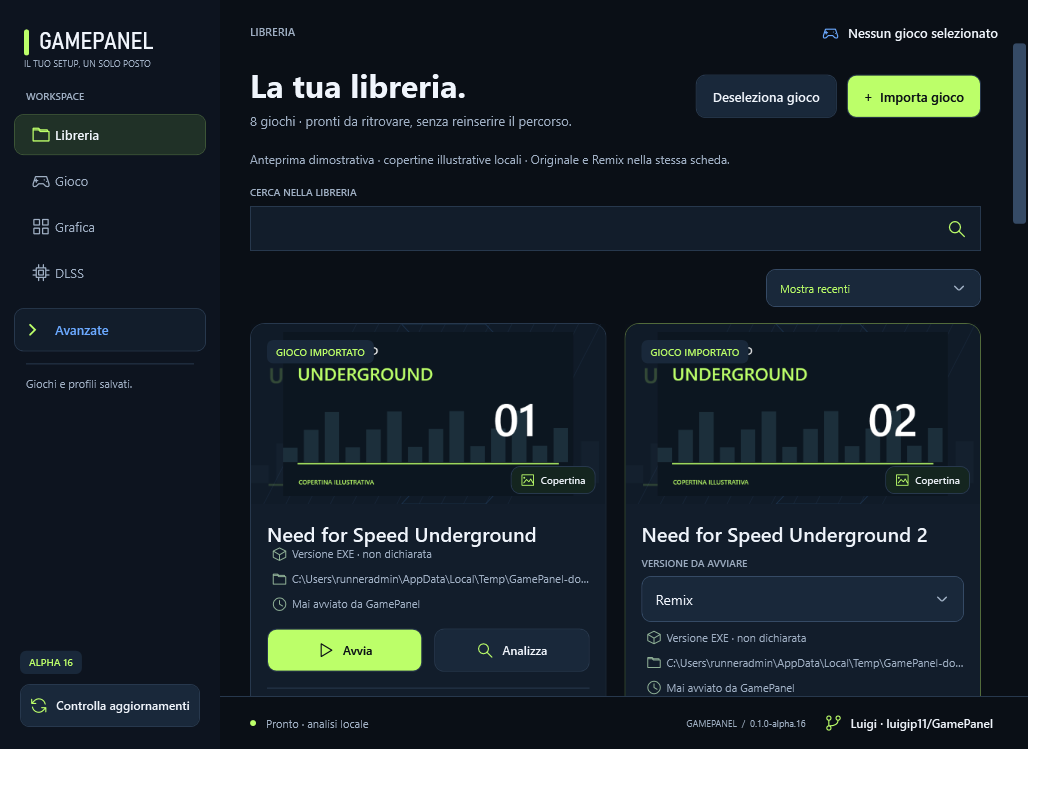
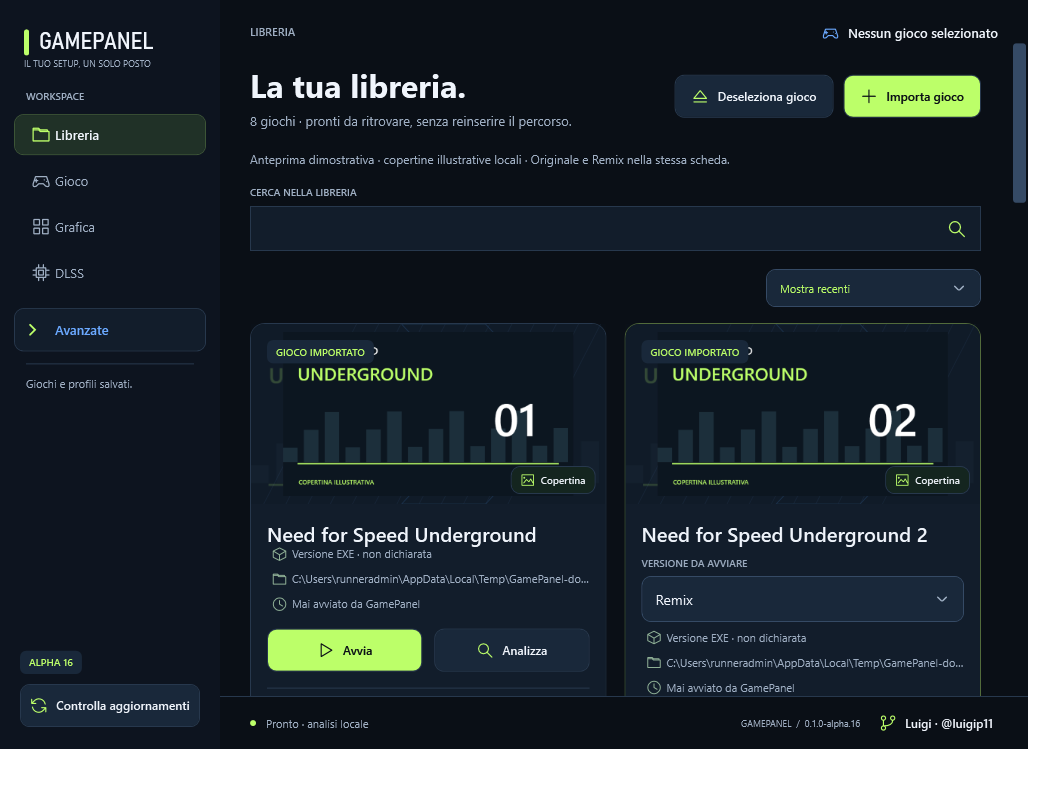
Update verified alpha.16 package link and native screenshots for every corrected page

Changed region(s): [[0.6437, 0.0914, 0.9195, 0.1523], [0.6743, 0.9137, 0.9502, 0.9442], [0.9502, 0.2437, 0.9808, 0.3046]]

diff --git a/README.md b/README.md
@@ -6,7 +6,7 @@ Le funzioni vengono proposte in base al gioco, al renderer e all'hardware rileva
 
 ## Download
 
-**[Scarica GamePanel alpha.16 per Windows x64](https://github.com/luigip11/GamePanel/actions/runs/42211356115/artifacts/13499396707)** · [Build e controlli superati](https://github.com/luigip11/GamePanel/actions/runs/42211356115) · [PR #7](https://github.com/luigip11/GamePanel/pull/7). Il download degli artifact richiede accesso a GitHub e resta disponibile fino al 4 febbraio 2027.
+**[Scarica GamePanel alpha.16 per Windows x64](https://github.com/luigip11/GamePanel/actions/runs/42228867851/artifacts/13507551076)** · [Build e controlli superati](https://github.com/luigip11/GamePanel/actions/runs/42228867851) · [PR #7](https://github.com/luigip11/GamePanel/pull/7). Il download degli artifact richiede accesso a GitHub e resta disponibile fino al 4 febbraio 2027.
 
 Per usare una build portabile, estrarre tutto lo ZIP in una cartella nuova e aprire **GamePanel.exe**. Runtime dell'app incluso; guide in **Docs**, licenze in **Licenses**, materiali in **Assets**. Giochi e pacchetti Remix non sono inclusi.
 
@@ -30,12 +30,56 @@ Le copie preparate richiedono una prova nel gioco. Il collaudo di una configuraz
 
 ## Schermate
 
-Catture della vera app WPF alpha.16 su Windows, con libreria dimostrativa isolata e copertine illustrative locali. Non mostrano prestazioni misurate dei giochi.
+Catture della vera app WPF alpha.16 su Windows, con libreria dimostrativa isolata e copertine illustrative locali. L'hardware mostrato nella pagina Gioco appartiene al runner Windows; non rappresenta il PC dell'utente. Nessun gioco viene eseguito per produrre queste immagini.
 
-![Libreria GamePanel con Underground 1 e 2](docs/images/alpha16-library-nfs.png)
+![Libreria GamePanel](docs/images/alpha16-library-nfs.png)
 
-![Gioco con copertina selezionata](docs/images/alpha16-game.png)
+<details>
+<summary>Azioni delle schede della libreria</summary>
 
-![Parametri DLSS nella UI Windows](docs/images/alpha16-dlss-parameters.png)
+![Azioni con icone](docs/images/alpha16-library-actions.png)
 
-Verifica: **271/271 controlli core Windows superati**, controlli UI, avvio, updater e launcher Explorer riusciti. Le copie Remix generate richiedono un collaudo nel gioco sul PC dell'utente.
+</details>
+
+<details>
+<summary>Gioco e specifiche hardware</summary>
+
+![Gioco e copertina](docs/images/alpha16-game.png)
+
+![CPU, GPU e RAM rilevate](docs/images/alpha16-hardware.png)
+
+</details>
+
+<details>
+<summary>Grafica del gioco</summary>
+
+![Scorciatoie grafiche e filtri](docs/images/alpha16-graphics.png)
+
+</details>
+
+<details>
+<summary>DLSS: configurazione e parametri</summary>
+
+![Salva e ripristina affiancati](docs/images/alpha16-dlss-profile.png)
+
+![Parametri DLSS](docs/images/alpha16-dlss-parameters.png)
+
+</details>
+
+<details>
+<summary>Schermo e configurazione avanzata</summary>
+
+![Monitor selezionato e risoluzione](docs/images/alpha16-screen.png)
+
+![Configurazione avanzata del gioco](docs/images/alpha16-screen-advanced.png)
+
+</details>
+
+<details>
+<summary>Backup e punti di ripristino</summary>
+
+![Backup con Esamina ed Elimina](docs/images/alpha16-backups.png)
+
+</details>
+
+Verifica: **273/273 controlli core Windows superati**, controlli UI, avvio, updater e launcher Explorer riusciti. Le copie Remix generate richiedono un collaudo nel gioco sul PC dell'utente.

diff --git a/docs/RELEASE-NOTES.md b/docs/RELEASE-NOTES.md
@@ -1,6 +1,6 @@
 # Alpha.16 — nuova UI e percorsi grafici guidati
 
-Il design approvato nel prototipo web entra nell'app WPF: libreria adattiva con ordinamento condizionale, azioni a meta riga, copertina nella pagina Gioco, pulsanti principali estesi, informazioni Windows nel riquadro hardware, tab illustrati, campi scuri, hover e attribuzione al repository.
+Il design approvato nel prototipo web entra nell'app WPF: libreria adattiva con ordinamento condizionale, azioni a meta riga, copertina nella pagina Gioco, pulsanti principali estesi, informazioni Windows nel riquadro hardware, tab illustrati, campi scuri, hover e collegamento al profilo GitHub dell’autore. CPU, GPU e RAM sono separate per tipologia. La pagina Schermo mostra un monitor illustrato, selettori affiancati e campi avanzati su righe coerenti con il prototipo. I backup hanno conteggio, righe con Esamina e cancellazione confermata del singolo punto; un ripristino interrotto ne blocca l’eliminazione.
 
 La preparazione locale Remix usa cataloghi di impronte dei file UG1 e UG2 esaminati. Cartella o ZIP locale, anteprima senza scritture, nuova copia in staging e pubblicazione solo dopo verifica. Gli EXE provengono dalla copia compatibile dell'utente. UG2 conserva il proprio FrontB.lzc e Smol e separato; i dati uguali della copia originale vengono riutilizzati. Lo ZIP esportato contiene solo componenti selezionati e non viene pubblicato automaticamente. Per GitHub Releases si possono preparare parti inferiori a 2 GiB e manifest SHA-256; GamePanel ricostruisce lo ZIP dai file scaricati verificandone gli hash. Download GamePanel indisponibile finche non esistono pacchetti ospitati e distribuibili verificati.
 
